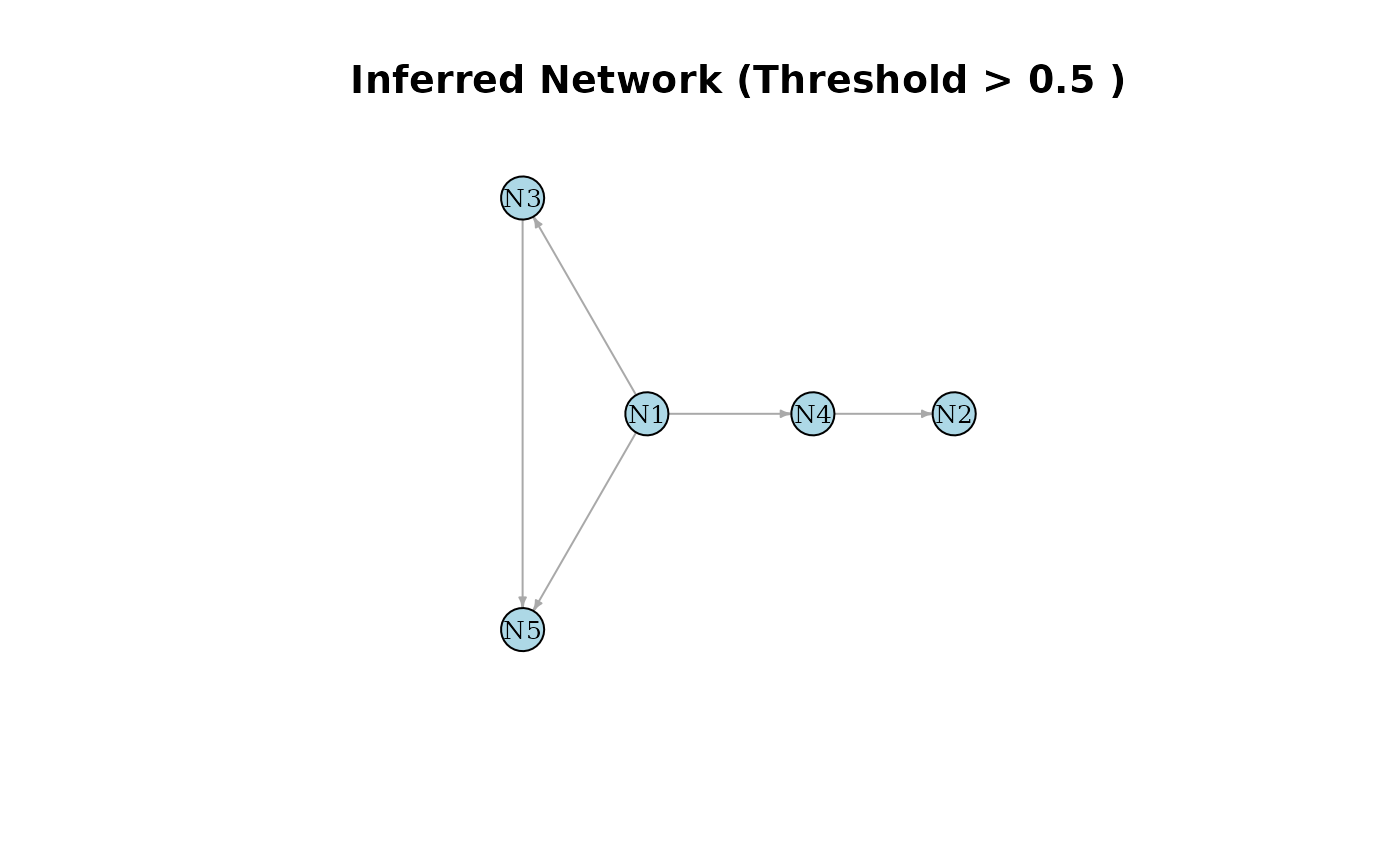
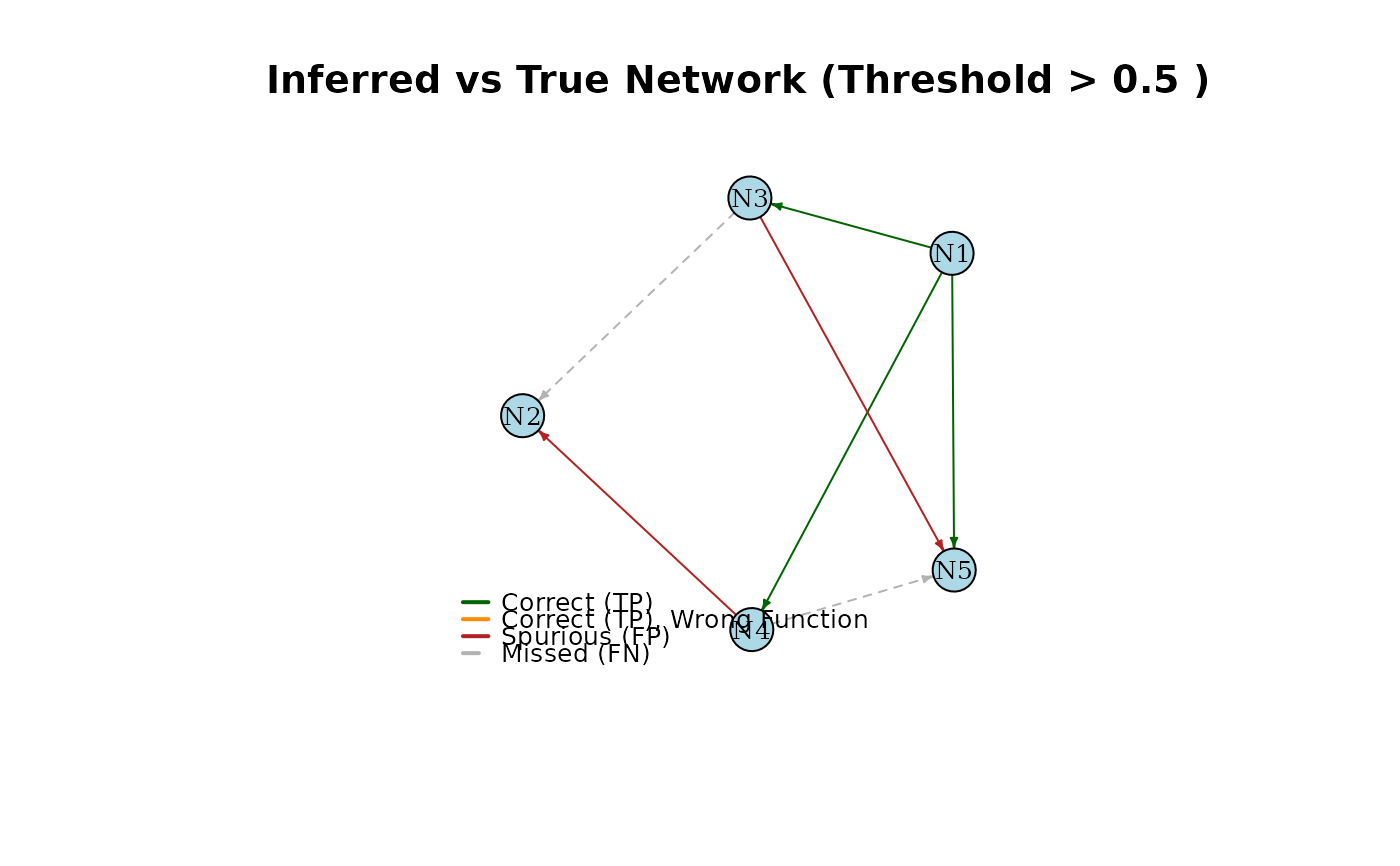
Deploying to gh-pages from @ anson-li8/BBNI@2f56690477d90edeb4f61f7393b269a9d72b8ce1 🚀

diff --git a/reference/plot_bbni.html b/reference/plot_bbni.html
@@ -55,7 +55,13 @@ probabilities below the specified threshold are omitted from the plot.</p>
 
     <div class="section level2">
     <h2 id="ref-usage">Usage<a class="anchor" aria-label="anchor" href="#ref-usage"></a></h2>
-    <div class="sourceCode"><pre class="sourceCode r"><code><span><span class="fu">plot_bbni</span><span class="op">(</span><span class="va">results</span>, threshold <span class="op">=</span> <span class="fl">0.5</span>, node_names <span class="op">=</span> <span class="cn">NULL</span>, <span class="va">...</span><span class="op">)</span></span></code></pre></div>
+    <div class="sourceCode"><pre class="sourceCode r"><code><span><span class="fu">plot_bbni</span><span class="op">(</span></span>
+<span>  <span class="va">results</span>,</span>
+<span>  threshold <span class="op">=</span> <span class="fl">0.5</span>,</span>
+<span>  node_names <span class="op">=</span> <span class="cn">NULL</span>,</span>
+<span>  true_network <span class="op">=</span> <span class="cn">NULL</span>,</span>
+<span>  <span class="va">...</span></span>
+<span><span class="op">)</span></span></code></pre></div>
     </div>
 
     <div class="section level2">
@@ -72,6 +78,10 @@ probabilities below the specified threshold are omitted from the plot.</p>
 
 <dt id="arg-node-names">node_names<a class="anchor" aria-label="anchor" href="#arg-node-names"></a></dt>
 <dd><p>Character vector. Optional names for the nodes. Defaults to "N1", "N2", etc.</p></dd>
+
+
+<dt id="arg-true-network">true_network<a class="anchor" aria-label="anchor" href="#arg-true-network"></a></dt>
+<dd><p>Optional square matrix representing the true network topology. If provided, edges will be color-coded to indicate true positives (along with displaying wrong function inferences), false positives, and false negatives. Purely for simulation purposes.</p></dd>
 
 
 <dt id="arg--">...<a class="anchor" aria-label="anchor" href="#arg--"></a></dt>
@@ -99,7 +109,7 @@ probabilities below the specified threshold are omitted from the plot.</p>
 <span class="r-in"><span><span class="va">results</span> <span class="op">&lt;-</span> <span class="fu"><a href="run_bbni.html">run_bbni</a></span><span class="op">(</span><span class="va">dummy_data</span>, prior_para <span class="op">=</span> <span class="va">prior_para</span>, num_update <span class="op">=</span> <span class="fl">100</span><span class="op">)</span></span></span>
 <span class="r-in"><span></span></span>
 <span class="r-in"><span><span class="co"># 3. Plot inferred network</span></span></span>
-<span class="r-in"><span><span class="fu">plot_bbni</span><span class="op">(</span><span class="va">results</span>, threshold <span class="op">=</span> <span class="fl">0.5</span><span class="op">)</span></span></span>
+<span class="r-in"><span><span class="fu">plot_bbni</span><span class="op">(</span><span class="va">results</span>, true_network <span class="op">=</span> <span class="va">true_network</span>, threshold <span class="op">=</span> <span class="fl">0.5</span><span class="op">)</span></span></span>
 <span class="r-plt img"><img src="plot_bbni-1.png" alt="" width="700" height="433"></span>
 <span class="r-in"><span><span class="co"># }</span></span></span>
 <span class="r-in"><span></span></span>

diff --git a/reference/plot_bbni.md b/reference/plot_bbni.md
@@ -9,7 +9,13 @@ from the plot.
 ## Usage
 
 ``` r
-plot_bbni(results, threshold = 0.5, node_names = NULL, ...)
+plot_bbni(
+  results,
+  threshold = 0.5,
+  node_names = NULL,
+  true_network = NULL,
+  ...
+)
 ```
 
 ## Arguments
@@ -29,6 +35,13 @@ plot_bbni(results, threshold = 0.5, node_names = NULL, ...)
 
   Character vector. Optional names for the nodes. Defaults to "N1",
   "N2", etc.
+
+- true_network:
+
+  Optional square matrix representing the true network topology. If
+  provided, edges will be color-coded to indicate true positives (along
+  with displaying wrong function inferences), false positives, and false
+  negatives. Purely for simulation purposes.
 
 - ...:
 
@@ -56,7 +69,7 @@ prior_para[6, 2] <- 100
 results <- run_bbni(dummy_data, prior_para = prior_para, num_update = 100)
 
 # 3. Plot inferred network
-plot_bbni(results, threshold = 0.5)
+plot_bbni(results, true_network = true_network, threshold = 0.5)
 
 # }
 ```